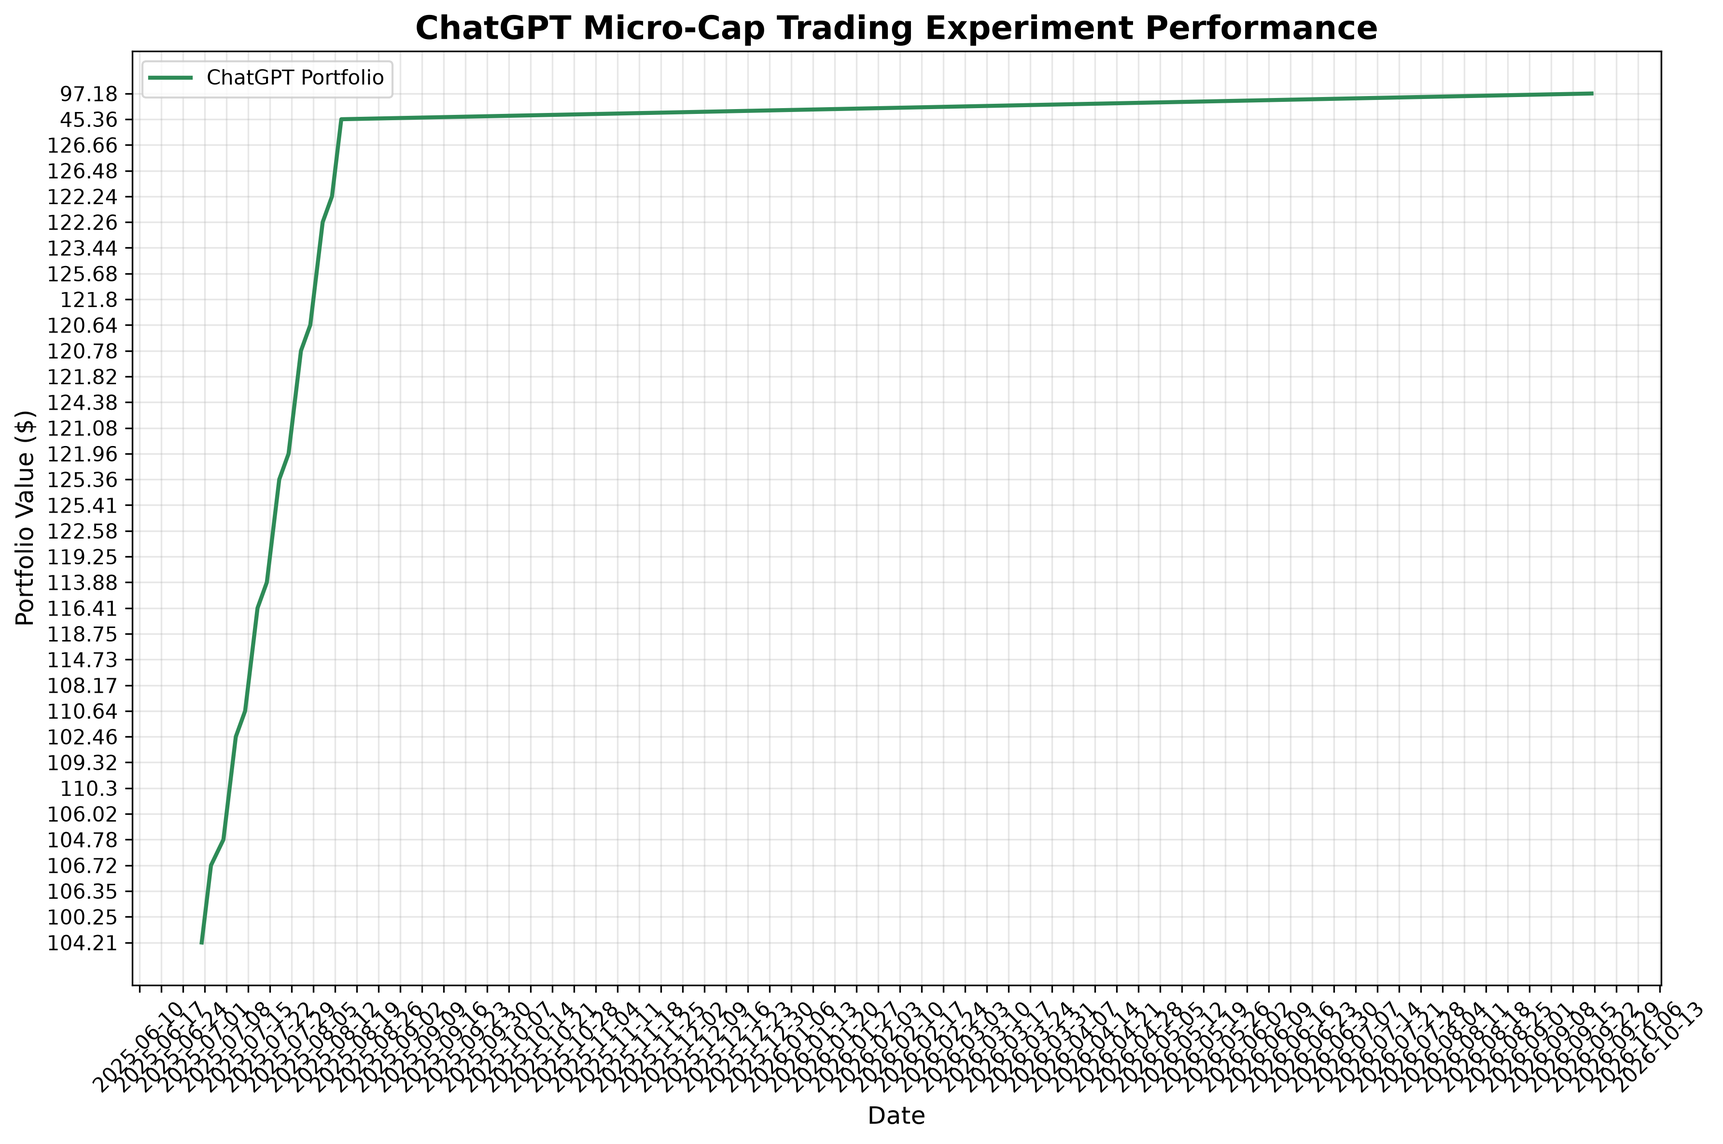
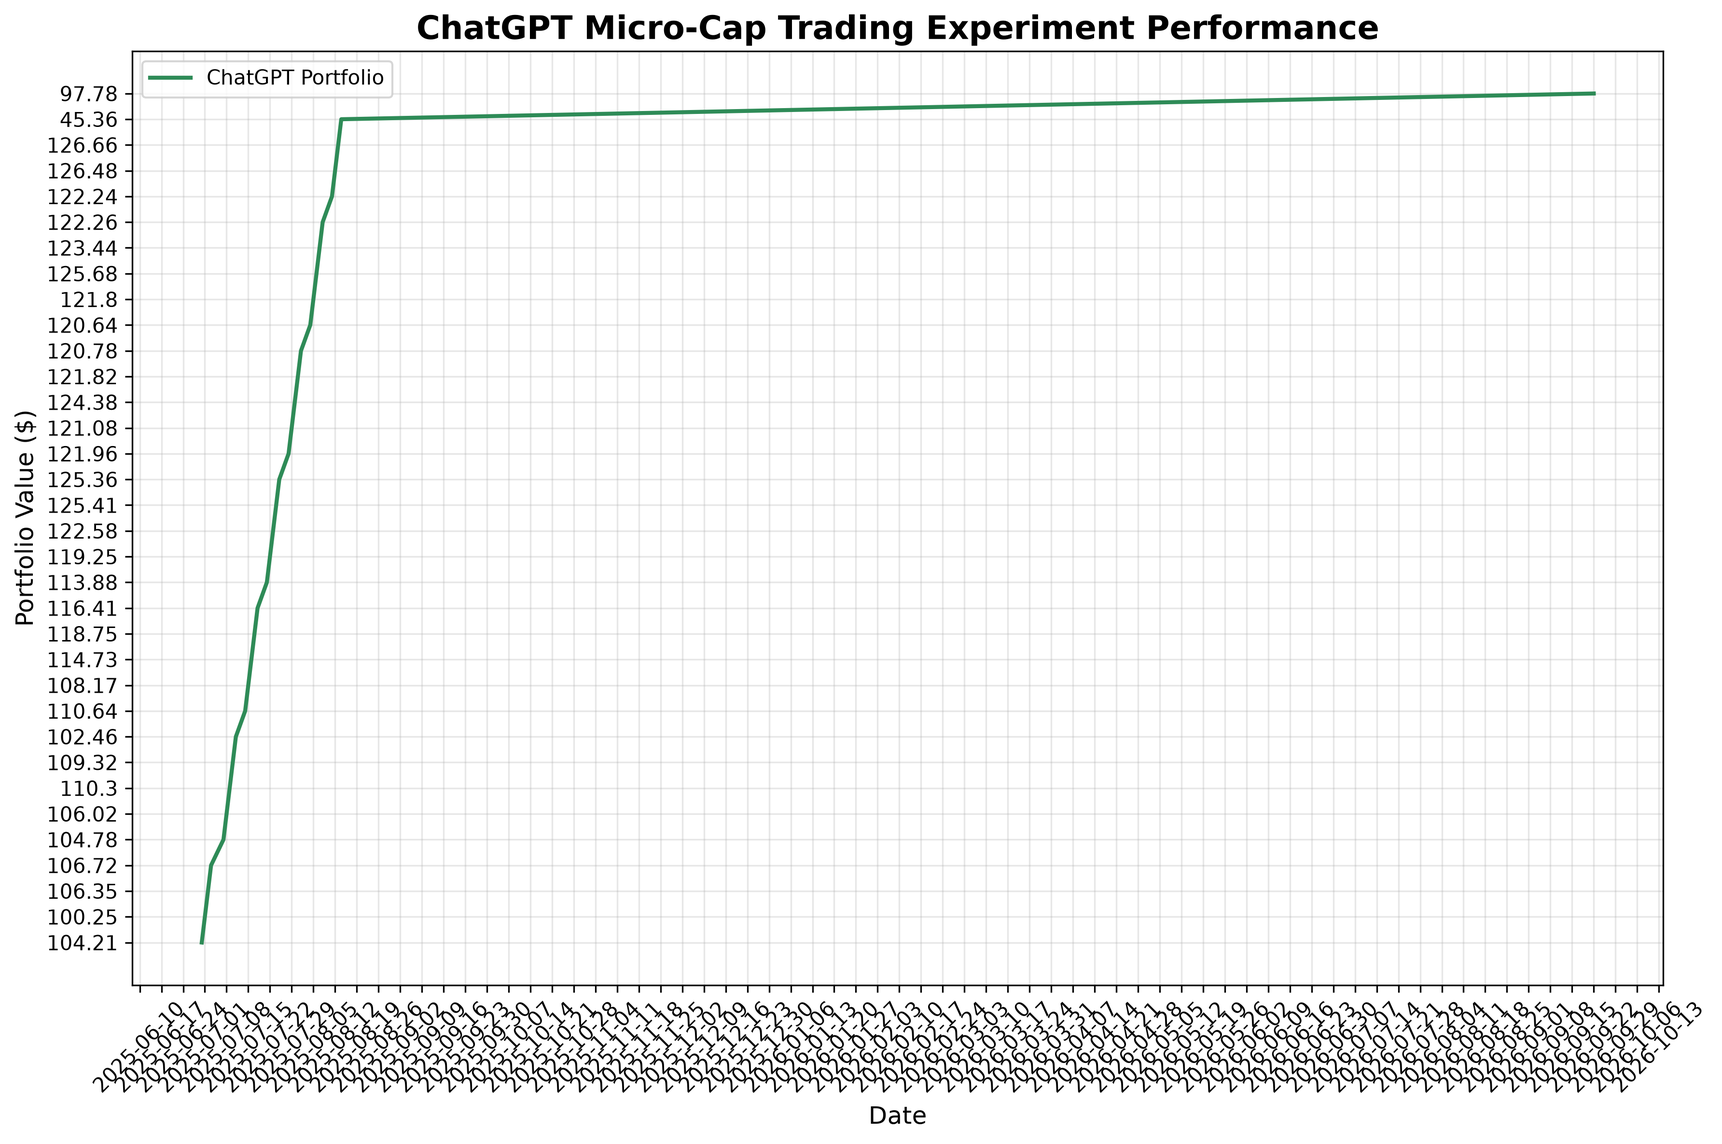
deploy: e15cad030d70fb3fbb51f9df6e22fa70c2f175c0

Changed region(s): [[0.0622, 0.8743, 0.84, 0.9367], [0.2489, 0.0, 0.7777, 0.0312], [0.4978, 0.9679, 0.5289, 0.9992]]

diff --git a/index.html b/index.html
@@ -105,7 +105,7 @@
                 <div class="stat-label">Total Trades</div>
             </div>
             <div class="stat-card">
-                <div class="stat-value" id="last-updated">2026-09-21</div>
+                <div class="stat-value" id="last-updated">2026-09-22</div>
                 <div class="stat-label">Last Updated</div>
             </div>
         </div>
@@ -160,8 +160,8 @@
     
     <script>
         // Portfolio data
-        const portfolioData = JSON.parse("[{&quot;Date&quot;: &quot;2025-08-11&quot;, &quot;Ticker&quot;: &quot;ABEO&quot;, &quot;Shares&quot;: 4.0, &quot;Buy Price&quot;: 5.77, &quot;Cost Basis&quot;: 23.08, &quot;Stop Loss&quot;: 4.9, &quot;Current Price&quot;: 6.28, &quot;Total Value&quot;: 25.12, &quot;PnL&quot;: 2.04, &quot;Action&quot;: &quot;HOLD&quot;, &quot;Cash Balance&quot;: NaN, &quot;Total Equity&quot;: NaN}, {&quot;Date&quot;: &quot;2025-08-11&quot;, &quot;Ticker&quot;: &quot;ACTU&quot;, &quot;Shares&quot;: 6.0, &quot;Buy Price&quot;: 5.75, &quot;Cost Basis&quot;: 34.5, &quot;Stop Loss&quot;: 4.89, &quot;Current Price&quot;: 8.01, &quot;Total Value&quot;: 48.06, &quot;PnL&quot;: 13.56, &quot;Action&quot;: &quot;HOLD&quot;, &quot;Cash Balance&quot;: NaN, &quot;Total Equity&quot;: NaN}, {&quot;Date&quot;: &quot;2025-08-11&quot;, &quot;Ticker&quot;: &quot;ESPR&quot;, &quot;Shares&quot;: 2.0, &quot;Buy Price&quot;: 1.91, &quot;Cost Basis&quot;: 3.82, &quot;Stop Loss&quot;: 1.6, &quot;Current Price&quot;: 1.85, &quot;Total Value&quot;: 3.7, &quot;PnL&quot;: -0.12, &quot;Action&quot;: &quot;HOLD&quot;, &quot;Cash Balance&quot;: NaN, &quot;Total Equity&quot;: NaN}, {&quot;Date&quot;: &quot;2025-08-11&quot;, &quot;Ticker&quot;: &quot;TOTAL&quot;, &quot;Shares&quot;: NaN, &quot;Buy Price&quot;: NaN, &quot;Cost Basis&quot;: NaN, &quot;Stop Loss&quot;: NaN, &quot;Current Price&quot;: NaN, &quot;Total Value&quot;: 76.88, &quot;PnL&quot;: 15.48, &quot;Action&quot;: NaN, &quot;Cash Balance&quot;: 45.36, &quot;Total Equity&quot;: &quot;122.24&quot;}, {&quot;Date&quot;: &quot;2025-08-12&quot;, &quot;Ticker&quot;: &quot;ABEO&quot;, &quot;Shares&quot;: 4.0, &quot;Buy Price&quot;: 5.77, &quot;Cost Basis&quot;: 23.08, &quot;Stop Loss&quot;: 4.9, &quot;Current Price&quot;: 6.38, &quot;Total Value&quot;: 25.52, &quot;PnL&quot;: 2.44, &quot;Action&quot;: &quot;HOLD&quot;, &quot;Cash Balance&quot;: NaN, &quot;Total Equity&quot;: NaN}, {&quot;Date&quot;: &quot;2025-08-12&quot;, &quot;Ticker&quot;: &quot;ACTU&quot;, &quot;Shares&quot;: 6.0, &quot;Buy Price&quot;: 5.75, &quot;Cost Basis&quot;: 34.5, &quot;Stop Loss&quot;: 4.89, &quot;Current Price&quot;: 8.67, &quot;Total Value&quot;: 52.02, &quot;PnL&quot;: 17.52, &quot;Action&quot;: &quot;HOLD&quot;, &quot;Cash Balance&quot;: NaN, &quot;Total Equity&quot;: NaN}, {&quot;Date&quot;: &quot;2025-08-12&quot;, &quot;Ticker&quot;: &quot;ESPR&quot;, &quot;Shares&quot;: 2.0, &quot;Buy Price&quot;: 1.91, &quot;Cost Basis&quot;: 3.82, &quot;Stop Loss&quot;: 1.6, &quot;Current Price&quot;: 1.79, &quot;Total Value&quot;: 3.58, &quot;PnL&quot;: -0.24, &quot;Action&quot;: &quot;HOLD&quot;, &quot;Cash Balance&quot;: NaN, &quot;Total Equity&quot;: NaN}, {&quot;Date&quot;: &quot;2025-08-12&quot;, &quot;Ticker&quot;: &quot;TOTAL&quot;, &quot;Shares&quot;: NaN, &quot;Buy Price&quot;: NaN, &quot;Cost Basis&quot;: NaN, &quot;Stop Loss&quot;: NaN, &quot;Current Price&quot;: NaN, &quot;Total Value&quot;: 81.12, &quot;PnL&quot;: 19.72, &quot;Action&quot;: NaN, &quot;Cash Balance&quot;: 45.36, &quot;Total Equity&quot;: &quot;126.48&quot;}, {&quot;Date&quot;: &quot;2025-08-13&quot;, &quot;Ticker&quot;: &quot;ABEO&quot;, &quot;Shares&quot;: 4.0, &quot;Buy Price&quot;: 5.77, &quot;Cost Basis&quot;: 23.08, &quot;Stop Loss&quot;: 4.9, &quot;Current Price&quot;: 6.56, &quot;Total Value&quot;: 26.24, &quot;PnL&quot;: 3.16, &quot;Action&quot;: &quot;HOLD&quot;, &quot;Cash Balance&quot;: NaN, &quot;Total Equity&quot;: NaN}, {&quot;Date&quot;: &quot;2025-08-13&quot;, &quot;Ticker&quot;: &quot;ACTU&quot;, &quot;Shares&quot;: 6.0, &quot;Buy Price&quot;: 5.75, &quot;Cost Basis&quot;: 34.5, &quot;Stop Loss&quot;: 4.89, &quot;Current Price&quot;: 8.53, &quot;Total Value&quot;: 51.18, &quot;PnL&quot;: 16.68, &quot;Action&quot;: &quot;HOLD&quot;, &quot;Cash Balance&quot;: NaN, &quot;Total Equity&quot;: NaN}, {&quot;Date&quot;: &quot;2025-08-13&quot;, &quot;Ticker&quot;: &quot;ESPR&quot;, &quot;Shares&quot;: 2.0, &quot;Buy Price&quot;: 1.91, &quot;Cost Basis&quot;: 3.82, &quot;Stop Loss&quot;: 1.6, &quot;Current Price&quot;: 1.94, &quot;Total Value&quot;: 3.88, &quot;PnL&quot;: 0.06, &quot;Action&quot;: &quot;HOLD&quot;, &quot;Cash Balance&quot;: NaN, &quot;Total Equity&quot;: NaN}, {&quot;Date&quot;: &quot;2025-08-13&quot;, &quot;Ticker&quot;: &quot;TOTAL&quot;, &quot;Shares&quot;: NaN, &quot;Buy Price&quot;: NaN, &quot;Cost Basis&quot;: NaN, &quot;Stop Loss&quot;: NaN, &quot;Current Price&quot;: NaN, &quot;Total Value&quot;: 81.3, &quot;PnL&quot;: 19.9, &quot;Action&quot;: NaN, &quot;Cash Balance&quot;: 45.36, &quot;Total Equity&quot;: &quot;126.66&quot;}, {&quot;Date&quot;: &quot;2025-08-14&quot;, &quot;Ticker&quot;: &quot;ABEO&quot;, &quot;Shares&quot;: 4.0, &quot;Buy Price&quot;: 5.77, &quot;Cost Basis&quot;: 23.08, &quot;Stop Loss&quot;: 4.9, &quot;Current Price&quot;: NaN, &quot;Total Value&quot;: NaN, &quot;PnL&quot;: NaN, &quot;Action&quot;: &quot;NO DATA&quot;, &quot;Cash Balance&quot;: NaN, &quot;Total Equity&quot;: NaN}, {&quot;Date&quot;: &quot;2025-08-14&quot;, &quot;Ticker&quot;: &quot;ACTU&quot;, &quot;Shares&quot;: 6.0, &quot;Buy Price&quot;: 5.75, &quot;Cost Basis&quot;: 34.5, &quot;Stop Loss&quot;: 4.89, &quot;Current Price&quot;: NaN, &quot;Total Value&quot;: NaN, &quot;PnL&quot;: NaN, &quot;Action&quot;: &quot;NO DATA&quot;, &quot;Cash Balance&quot;: NaN, &quot;Total Equity&quot;: NaN}, {&quot;Date&quot;: &quot;2025-08-14&quot;, &quot;Ticker&quot;: &quot;ESPR&quot;, &quot;Shares&quot;: 2.0, &quot;Buy Price&quot;: 1.91, &quot;Cost Basis&quot;: 3.82, &quot;Stop Loss&quot;: 1.6, &quot;Current Price&quot;: NaN, &quot;Total Value&quot;: NaN, &quot;PnL&quot;: NaN, &quot;Action&quot;: &quot;NO DATA&quot;, &quot;Cash Balance&quot;: NaN, &quot;Total Equity&quot;: NaN}, {&quot;Date&quot;: &quot;2025-08-14&quot;, &quot;Ticker&quot;: &quot;TOTAL&quot;, &quot;Shares&quot;: NaN, &quot;Buy Price&quot;: NaN, &quot;Cost Basis&quot;: NaN, &quot;Stop Loss&quot;: NaN, &quot;Current Price&quot;: NaN, &quot;Total Value&quot;: 0.0, &quot;PnL&quot;: 0.0, &quot;Action&quot;: NaN, &quot;Cash Balance&quot;: 45.36, &quot;Total Equity&quot;: &quot;45.36&quot;}, {&quot;Date&quot;: &quot;2026-09-21&quot;, &quot;Ticker&quot;: &quot;ABEO&quot;, &quot;Shares&quot;: 4.0, &quot;Buy Price&quot;: 5.77, &quot;Cost Basis&quot;: 23.08, &quot;Stop Loss&quot;: 4.9, &quot;Current Price&quot;: 5.62, &quot;Total Value&quot;: 22.48, &quot;PnL&quot;: -0.6, &quot;Action&quot;: &quot;HOLD&quot;, &quot;Cash Balance&quot;: NaN, &quot;Total Equity&quot;: NaN}, {&quot;Date&quot;: &quot;2026-09-21&quot;, &quot;Ticker&quot;: &quot;ACTU&quot;, &quot;Shares&quot;: 6.0, &quot;Buy Price&quot;: 5.75, &quot;Cost Basis&quot;: 34.5, &quot;Stop Loss&quot;: 4.89, &quot;Current Price&quot;: 4.89, &quot;Total Value&quot;: 29.34, &quot;PnL&quot;: -5.16, &quot;Action&quot;: &quot;SELL - Stop Loss Triggered&quot;, &quot;Cash Balance&quot;: NaN, &quot;Total Equity&quot;: NaN}, {&quot;Date&quot;: &quot;2026-09-21&quot;, &quot;Ticker&quot;: &quot;ESPR&quot;, &quot;Shares&quot;: 2.0, &quot;Buy Price&quot;: 1.91, &quot;Cost Basis&quot;: 3.82, &quot;Stop Loss&quot;: 1.6, &quot;Current Price&quot;: NaN, &quot;Total Value&quot;: NaN, &quot;PnL&quot;: NaN, &quot;Action&quot;: &quot;NO DATA&quot;, &quot;Cash Balance&quot;: NaN, &quot;Total Equity&quot;: NaN}, {&quot;Date&quot;: &quot;2026-09-21&quot;, &quot;Ticker&quot;: &quot;TOTAL&quot;, &quot;Shares&quot;: NaN, &quot;Buy Price&quot;: NaN, &quot;Cost Basis&quot;: NaN, &quot;Stop Loss&quot;: NaN, &quot;Current Price&quot;: NaN, &quot;Total Value&quot;: 22.48, &quot;PnL&quot;: -0.6, &quot;Action&quot;: NaN, &quot;Cash Balance&quot;: 74.7, &quot;Total Equity&quot;: &quot;97.18&quot;}]");
-        const tradeData = JSON.parse("[{&quot;Date&quot;: &quot;2025-07-08&quot;, &quot;Ticker&quot;: &quot;IINN&quot;, &quot;Shares Bought&quot;: 20.0, &quot;Buy Price&quot;: 1.5, &quot;Cost Basis&quot;: 30.0, &quot;PnL&quot;: 0.0, &quot;Reason&quot;: &quot;MANUAL BUY - New position&quot;, &quot;Shares Sold&quot;: NaN, &quot;Sell Price&quot;: NaN}, {&quot;Date&quot;: &quot;2025-07-21&quot;, &quot;Ticker&quot;: &quot;CADL&quot;, &quot;Shares Bought&quot;: NaN, &quot;Buy Price&quot;: NaN, &quot;Cost Basis&quot;: 25.2, &quot;PnL&quot;: 8.5, &quot;Reason&quot;: &quot;MANUAL SELL - GAIN CAPITAL FOR ACTU&quot;, &quot;Shares Sold&quot;: 5.0, &quot;Sell Price&quot;: 6.59}, {&quot;Date&quot;: &quot;2025-07-21&quot;, &quot;Ticker&quot;: &quot;ACTU&quot;, &quot;Shares Bought&quot;: 6.0, &quot;Buy Price&quot;: 5.75, &quot;Cost Basis&quot;: 34.5, &quot;PnL&quot;: 0.0, &quot;Reason&quot;: &quot;MANUAL BUY - New position&quot;, &quot;Shares Sold&quot;: NaN, &quot;Sell Price&quot;: NaN}, {&quot;Date&quot;: &quot;2025-07-28&quot;, &quot;Ticker&quot;: &quot;IINN&quot;, &quot;Shares Bought&quot;: NaN, &quot;Buy Price&quot;: NaN, &quot;Cost Basis&quot;: 9.0, &quot;PnL&quot;: -0.5400000000000009, &quot;Reason&quot;: &quot;MANUAL SELL - POSITION REDUCTION&quot;, &quot;Shares Sold&quot;: 6.0, &quot;Sell Price&quot;: 1.41}, {&quot;Date&quot;: &quot;2025-07-29&quot;, &quot;Ticker&quot;: &quot;AZTR&quot;, &quot;Shares Bought&quot;: NaN, &quot;Buy Price&quot;: NaN, &quot;Cost Basis&quot;: 13.75, &quot;PnL&quot;: -2.75, &quot;Reason&quot;: &quot;MANUAL SELL - DILUTION RISK&quot;, &quot;Shares Sold&quot;: 55.0, &quot;Sell Price&quot;: 0.2}, {&quot;Date&quot;: &quot;2025-08-01&quot;, &quot;Ticker&quot;: &quot;IINN&quot;, &quot;Shares Bought&quot;: 2.0, &quot;Buy Price&quot;: 1.74, &quot;Cost Basis&quot;: 3.48, &quot;PnL&quot;: 0.0, &quot;Reason&quot;: &quot;MANUAL BUY - New position&quot;, &quot;Shares Sold&quot;: NaN, &quot;Sell Price&quot;: NaN}, {&quot;Date&quot;: &quot;2025-08-01&quot;, &quot;Ticker&quot;: &quot;ABEO&quot;, &quot;Shares Bought&quot;: NaN, &quot;Buy Price&quot;: NaN, &quot;Cost Basis&quot;: 11.54, &quot;PnL&quot;: 1.200000000000001, &quot;Reason&quot;: &quot;MANUAL SELL - TRIM AFTER SUPPORT LOSS&quot;, &quot;Shares Sold&quot;: 2.0, &quot;Sell Price&quot;: 6.37}, {&quot;Date&quot;: &quot;2025-08-07&quot;, &quot;Ticker&quot;: &quot;ESPR&quot;, &quot;Shares Bought&quot;: 2.0, &quot;Buy Price&quot;: 1.91, &quot;Cost Basis&quot;: 3.82, &quot;PnL&quot;: 0.0, &quot;Reason&quot;: &quot;MANUAL BUY - New position&quot;, &quot;Shares Sold&quot;: NaN, &quot;Sell Price&quot;: NaN}, {&quot;Date&quot;: &quot;2025-08-08&quot;, &quot;Ticker&quot;: &quot;IINN&quot;, &quot;Shares Bought&quot;: NaN, &quot;Buy Price&quot;: NaN, &quot;Cost Basis&quot;: 1.5, &quot;PnL&quot;: -6.4, &quot;Reason&quot;: &quot;AUTOMATED SELL - STOPLOSS TRIGGERED&quot;, &quot;Shares Sold&quot;: 16.0, &quot;Sell Price&quot;: 1.1}, {&quot;Date&quot;: &quot;2026-09-21&quot;, &quot;Ticker&quot;: &quot;ACTU&quot;, &quot;Shares Bought&quot;: NaN, &quot;Buy Price&quot;: NaN, &quot;Cost Basis&quot;: 5.75, &quot;PnL&quot;: -5.16, &quot;Reason&quot;: &quot;AUTOMATED SELL - STOPLOSS TRIGGERED&quot;, &quot;Shares Sold&quot;: 6.0, &quot;Sell Price&quot;: 4.89}]");
+        const portfolioData = JSON.parse("[{&quot;Date&quot;: &quot;2025-08-11&quot;, &quot;Ticker&quot;: &quot;ABEO&quot;, &quot;Shares&quot;: 4.0, &quot;Buy Price&quot;: 5.77, &quot;Cost Basis&quot;: 23.08, &quot;Stop Loss&quot;: 4.9, &quot;Current Price&quot;: 6.28, &quot;Total Value&quot;: 25.12, &quot;PnL&quot;: 2.04, &quot;Action&quot;: &quot;HOLD&quot;, &quot;Cash Balance&quot;: NaN, &quot;Total Equity&quot;: NaN}, {&quot;Date&quot;: &quot;2025-08-11&quot;, &quot;Ticker&quot;: &quot;ACTU&quot;, &quot;Shares&quot;: 6.0, &quot;Buy Price&quot;: 5.75, &quot;Cost Basis&quot;: 34.5, &quot;Stop Loss&quot;: 4.89, &quot;Current Price&quot;: 8.01, &quot;Total Value&quot;: 48.06, &quot;PnL&quot;: 13.56, &quot;Action&quot;: &quot;HOLD&quot;, &quot;Cash Balance&quot;: NaN, &quot;Total Equity&quot;: NaN}, {&quot;Date&quot;: &quot;2025-08-11&quot;, &quot;Ticker&quot;: &quot;ESPR&quot;, &quot;Shares&quot;: 2.0, &quot;Buy Price&quot;: 1.91, &quot;Cost Basis&quot;: 3.82, &quot;Stop Loss&quot;: 1.6, &quot;Current Price&quot;: 1.85, &quot;Total Value&quot;: 3.7, &quot;PnL&quot;: -0.12, &quot;Action&quot;: &quot;HOLD&quot;, &quot;Cash Balance&quot;: NaN, &quot;Total Equity&quot;: NaN}, {&quot;Date&quot;: &quot;2025-08-11&quot;, &quot;Ticker&quot;: &quot;TOTAL&quot;, &quot;Shares&quot;: NaN, &quot;Buy Price&quot;: NaN, &quot;Cost Basis&quot;: NaN, &quot;Stop Loss&quot;: NaN, &quot;Current Price&quot;: NaN, &quot;Total Value&quot;: 76.88, &quot;PnL&quot;: 15.48, &quot;Action&quot;: NaN, &quot;Cash Balance&quot;: 45.36, &quot;Total Equity&quot;: &quot;122.24&quot;}, {&quot;Date&quot;: &quot;2025-08-12&quot;, &quot;Ticker&quot;: &quot;ABEO&quot;, &quot;Shares&quot;: 4.0, &quot;Buy Price&quot;: 5.77, &quot;Cost Basis&quot;: 23.08, &quot;Stop Loss&quot;: 4.9, &quot;Current Price&quot;: 6.38, &quot;Total Value&quot;: 25.52, &quot;PnL&quot;: 2.44, &quot;Action&quot;: &quot;HOLD&quot;, &quot;Cash Balance&quot;: NaN, &quot;Total Equity&quot;: NaN}, {&quot;Date&quot;: &quot;2025-08-12&quot;, &quot;Ticker&quot;: &quot;ACTU&quot;, &quot;Shares&quot;: 6.0, &quot;Buy Price&quot;: 5.75, &quot;Cost Basis&quot;: 34.5, &quot;Stop Loss&quot;: 4.89, &quot;Current Price&quot;: 8.67, &quot;Total Value&quot;: 52.02, &quot;PnL&quot;: 17.52, &quot;Action&quot;: &quot;HOLD&quot;, &quot;Cash Balance&quot;: NaN, &quot;Total Equity&quot;: NaN}, {&quot;Date&quot;: &quot;2025-08-12&quot;, &quot;Ticker&quot;: &quot;ESPR&quot;, &quot;Shares&quot;: 2.0, &quot;Buy Price&quot;: 1.91, &quot;Cost Basis&quot;: 3.82, &quot;Stop Loss&quot;: 1.6, &quot;Current Price&quot;: 1.79, &quot;Total Value&quot;: 3.58, &quot;PnL&quot;: -0.24, &quot;Action&quot;: &quot;HOLD&quot;, &quot;Cash Balance&quot;: NaN, &quot;Total Equity&quot;: NaN}, {&quot;Date&quot;: &quot;2025-08-12&quot;, &quot;Ticker&quot;: &quot;TOTAL&quot;, &quot;Shares&quot;: NaN, &quot;Buy Price&quot;: NaN, &quot;Cost Basis&quot;: NaN, &quot;Stop Loss&quot;: NaN, &quot;Current Price&quot;: NaN, &quot;Total Value&quot;: 81.12, &quot;PnL&quot;: 19.72, &quot;Action&quot;: NaN, &quot;Cash Balance&quot;: 45.36, &quot;Total Equity&quot;: &quot;126.48&quot;}, {&quot;Date&quot;: &quot;2025-08-13&quot;, &quot;Ticker&quot;: &quot;ABEO&quot;, &quot;Shares&quot;: 4.0, &quot;Buy Price&quot;: 5.77, &quot;Cost Basis&quot;: 23.08, &quot;Stop Loss&quot;: 4.9, &quot;Current Price&quot;: 6.56, &quot;Total Value&quot;: 26.24, &quot;PnL&quot;: 3.16, &quot;Action&quot;: &quot;HOLD&quot;, &quot;Cash Balance&quot;: NaN, &quot;Total Equity&quot;: NaN}, {&quot;Date&quot;: &quot;2025-08-13&quot;, &quot;Ticker&quot;: &quot;ACTU&quot;, &quot;Shares&quot;: 6.0, &quot;Buy Price&quot;: 5.75, &quot;Cost Basis&quot;: 34.5, &quot;Stop Loss&quot;: 4.89, &quot;Current Price&quot;: 8.53, &quot;Total Value&quot;: 51.18, &quot;PnL&quot;: 16.68, &quot;Action&quot;: &quot;HOLD&quot;, &quot;Cash Balance&quot;: NaN, &quot;Total Equity&quot;: NaN}, {&quot;Date&quot;: &quot;2025-08-13&quot;, &quot;Ticker&quot;: &quot;ESPR&quot;, &quot;Shares&quot;: 2.0, &quot;Buy Price&quot;: 1.91, &quot;Cost Basis&quot;: 3.82, &quot;Stop Loss&quot;: 1.6, &quot;Current Price&quot;: 1.94, &quot;Total Value&quot;: 3.88, &quot;PnL&quot;: 0.06, &quot;Action&quot;: &quot;HOLD&quot;, &quot;Cash Balance&quot;: NaN, &quot;Total Equity&quot;: NaN}, {&quot;Date&quot;: &quot;2025-08-13&quot;, &quot;Ticker&quot;: &quot;TOTAL&quot;, &quot;Shares&quot;: NaN, &quot;Buy Price&quot;: NaN, &quot;Cost Basis&quot;: NaN, &quot;Stop Loss&quot;: NaN, &quot;Current Price&quot;: NaN, &quot;Total Value&quot;: 81.3, &quot;PnL&quot;: 19.9, &quot;Action&quot;: NaN, &quot;Cash Balance&quot;: 45.36, &quot;Total Equity&quot;: &quot;126.66&quot;}, {&quot;Date&quot;: &quot;2025-08-14&quot;, &quot;Ticker&quot;: &quot;ABEO&quot;, &quot;Shares&quot;: 4.0, &quot;Buy Price&quot;: 5.77, &quot;Cost Basis&quot;: 23.08, &quot;Stop Loss&quot;: 4.9, &quot;Current Price&quot;: NaN, &quot;Total Value&quot;: NaN, &quot;PnL&quot;: NaN, &quot;Action&quot;: &quot;NO DATA&quot;, &quot;Cash Balance&quot;: NaN, &quot;Total Equity&quot;: NaN}, {&quot;Date&quot;: &quot;2025-08-14&quot;, &quot;Ticker&quot;: &quot;ACTU&quot;, &quot;Shares&quot;: 6.0, &quot;Buy Price&quot;: 5.75, &quot;Cost Basis&quot;: 34.5, &quot;Stop Loss&quot;: 4.89, &quot;Current Price&quot;: NaN, &quot;Total Value&quot;: NaN, &quot;PnL&quot;: NaN, &quot;Action&quot;: &quot;NO DATA&quot;, &quot;Cash Balance&quot;: NaN, &quot;Total Equity&quot;: NaN}, {&quot;Date&quot;: &quot;2025-08-14&quot;, &quot;Ticker&quot;: &quot;ESPR&quot;, &quot;Shares&quot;: 2.0, &quot;Buy Price&quot;: 1.91, &quot;Cost Basis&quot;: 3.82, &quot;Stop Loss&quot;: 1.6, &quot;Current Price&quot;: NaN, &quot;Total Value&quot;: NaN, &quot;PnL&quot;: NaN, &quot;Action&quot;: &quot;NO DATA&quot;, &quot;Cash Balance&quot;: NaN, &quot;Total Equity&quot;: NaN}, {&quot;Date&quot;: &quot;2025-08-14&quot;, &quot;Ticker&quot;: &quot;TOTAL&quot;, &quot;Shares&quot;: NaN, &quot;Buy Price&quot;: NaN, &quot;Cost Basis&quot;: NaN, &quot;Stop Loss&quot;: NaN, &quot;Current Price&quot;: NaN, &quot;Total Value&quot;: 0.0, &quot;PnL&quot;: 0.0, &quot;Action&quot;: NaN, &quot;Cash Balance&quot;: 45.36, &quot;Total Equity&quot;: &quot;45.36&quot;}, {&quot;Date&quot;: &quot;2026-09-22&quot;, &quot;Ticker&quot;: &quot;ABEO&quot;, &quot;Shares&quot;: 4.0, &quot;Buy Price&quot;: 5.77, &quot;Cost Basis&quot;: 23.08, &quot;Stop Loss&quot;: 4.9, &quot;Current Price&quot;: 5.77, &quot;Total Value&quot;: 23.08, &quot;PnL&quot;: 0.0, &quot;Action&quot;: &quot;HOLD&quot;, &quot;Cash Balance&quot;: NaN, &quot;Total Equity&quot;: NaN}, {&quot;Date&quot;: &quot;2026-09-22&quot;, &quot;Ticker&quot;: &quot;ACTU&quot;, &quot;Shares&quot;: 6.0, &quot;Buy Price&quot;: 5.75, &quot;Cost Basis&quot;: 34.5, &quot;Stop Loss&quot;: 4.89, &quot;Current Price&quot;: 4.89, &quot;Total Value&quot;: 29.34, &quot;PnL&quot;: -5.16, &quot;Action&quot;: &quot;SELL - Stop Loss Triggered&quot;, &quot;Cash Balance&quot;: NaN, &quot;Total Equity&quot;: NaN}, {&quot;Date&quot;: &quot;2026-09-22&quot;, &quot;Ticker&quot;: &quot;ESPR&quot;, &quot;Shares&quot;: 2.0, &quot;Buy Price&quot;: 1.91, &quot;Cost Basis&quot;: 3.82, &quot;Stop Loss&quot;: 1.6, &quot;Current Price&quot;: NaN, &quot;Total Value&quot;: NaN, &quot;PnL&quot;: NaN, &quot;Action&quot;: &quot;NO DATA&quot;, &quot;Cash Balance&quot;: NaN, &quot;Total Equity&quot;: NaN}, {&quot;Date&quot;: &quot;2026-09-22&quot;, &quot;Ticker&quot;: &quot;TOTAL&quot;, &quot;Shares&quot;: NaN, &quot;Buy Price&quot;: NaN, &quot;Cost Basis&quot;: NaN, &quot;Stop Loss&quot;: NaN, &quot;Current Price&quot;: NaN, &quot;Total Value&quot;: 23.08, &quot;PnL&quot;: 0.0, &quot;Action&quot;: NaN, &quot;Cash Balance&quot;: 74.7, &quot;Total Equity&quot;: &quot;97.78&quot;}]");
+        const tradeData = JSON.parse("[{&quot;Date&quot;: &quot;2025-07-08&quot;, &quot;Ticker&quot;: &quot;IINN&quot;, &quot;Shares Bought&quot;: 20.0, &quot;Buy Price&quot;: 1.5, &quot;Cost Basis&quot;: 30.0, &quot;PnL&quot;: 0.0, &quot;Reason&quot;: &quot;MANUAL BUY - New position&quot;, &quot;Shares Sold&quot;: NaN, &quot;Sell Price&quot;: NaN}, {&quot;Date&quot;: &quot;2025-07-21&quot;, &quot;Ticker&quot;: &quot;CADL&quot;, &quot;Shares Bought&quot;: NaN, &quot;Buy Price&quot;: NaN, &quot;Cost Basis&quot;: 25.2, &quot;PnL&quot;: 8.5, &quot;Reason&quot;: &quot;MANUAL SELL - GAIN CAPITAL FOR ACTU&quot;, &quot;Shares Sold&quot;: 5.0, &quot;Sell Price&quot;: 6.59}, {&quot;Date&quot;: &quot;2025-07-21&quot;, &quot;Ticker&quot;: &quot;ACTU&quot;, &quot;Shares Bought&quot;: 6.0, &quot;Buy Price&quot;: 5.75, &quot;Cost Basis&quot;: 34.5, &quot;PnL&quot;: 0.0, &quot;Reason&quot;: &quot;MANUAL BUY - New position&quot;, &quot;Shares Sold&quot;: NaN, &quot;Sell Price&quot;: NaN}, {&quot;Date&quot;: &quot;2025-07-28&quot;, &quot;Ticker&quot;: &quot;IINN&quot;, &quot;Shares Bought&quot;: NaN, &quot;Buy Price&quot;: NaN, &quot;Cost Basis&quot;: 9.0, &quot;PnL&quot;: -0.5400000000000009, &quot;Reason&quot;: &quot;MANUAL SELL - POSITION REDUCTION&quot;, &quot;Shares Sold&quot;: 6.0, &quot;Sell Price&quot;: 1.41}, {&quot;Date&quot;: &quot;2025-07-29&quot;, &quot;Ticker&quot;: &quot;AZTR&quot;, &quot;Shares Bought&quot;: NaN, &quot;Buy Price&quot;: NaN, &quot;Cost Basis&quot;: 13.75, &quot;PnL&quot;: -2.75, &quot;Reason&quot;: &quot;MANUAL SELL - DILUTION RISK&quot;, &quot;Shares Sold&quot;: 55.0, &quot;Sell Price&quot;: 0.2}, {&quot;Date&quot;: &quot;2025-08-01&quot;, &quot;Ticker&quot;: &quot;IINN&quot;, &quot;Shares Bought&quot;: 2.0, &quot;Buy Price&quot;: 1.74, &quot;Cost Basis&quot;: 3.48, &quot;PnL&quot;: 0.0, &quot;Reason&quot;: &quot;MANUAL BUY - New position&quot;, &quot;Shares Sold&quot;: NaN, &quot;Sell Price&quot;: NaN}, {&quot;Date&quot;: &quot;2025-08-01&quot;, &quot;Ticker&quot;: &quot;ABEO&quot;, &quot;Shares Bought&quot;: NaN, &quot;Buy Price&quot;: NaN, &quot;Cost Basis&quot;: 11.54, &quot;PnL&quot;: 1.200000000000001, &quot;Reason&quot;: &quot;MANUAL SELL - TRIM AFTER SUPPORT LOSS&quot;, &quot;Shares Sold&quot;: 2.0, &quot;Sell Price&quot;: 6.37}, {&quot;Date&quot;: &quot;2025-08-07&quot;, &quot;Ticker&quot;: &quot;ESPR&quot;, &quot;Shares Bought&quot;: 2.0, &quot;Buy Price&quot;: 1.91, &quot;Cost Basis&quot;: 3.82, &quot;PnL&quot;: 0.0, &quot;Reason&quot;: &quot;MANUAL BUY - New position&quot;, &quot;Shares Sold&quot;: NaN, &quot;Sell Price&quot;: NaN}, {&quot;Date&quot;: &quot;2025-08-08&quot;, &quot;Ticker&quot;: &quot;IINN&quot;, &quot;Shares Bought&quot;: NaN, &quot;Buy Price&quot;: NaN, &quot;Cost Basis&quot;: 1.5, &quot;PnL&quot;: -6.4, &quot;Reason&quot;: &quot;AUTOMATED SELL - STOPLOSS TRIGGERED&quot;, &quot;Shares Sold&quot;: 16.0, &quot;Sell Price&quot;: 1.1}, {&quot;Date&quot;: &quot;2026-09-22&quot;, &quot;Ticker&quot;: &quot;ACTU&quot;, &quot;Shares Bought&quot;: NaN, &quot;Buy Price&quot;: NaN, &quot;Cost Basis&quot;: 5.75, &quot;PnL&quot;: -5.16, &quot;Reason&quot;: &quot;AUTOMATED SELL - STOPLOSS TRIGGERED&quot;, &quot;Shares Sold&quot;: 6.0, &quot;Sell Price&quot;: 4.89}]");
         
         // Update total equity
         if (portfolioData.length > 0) {
